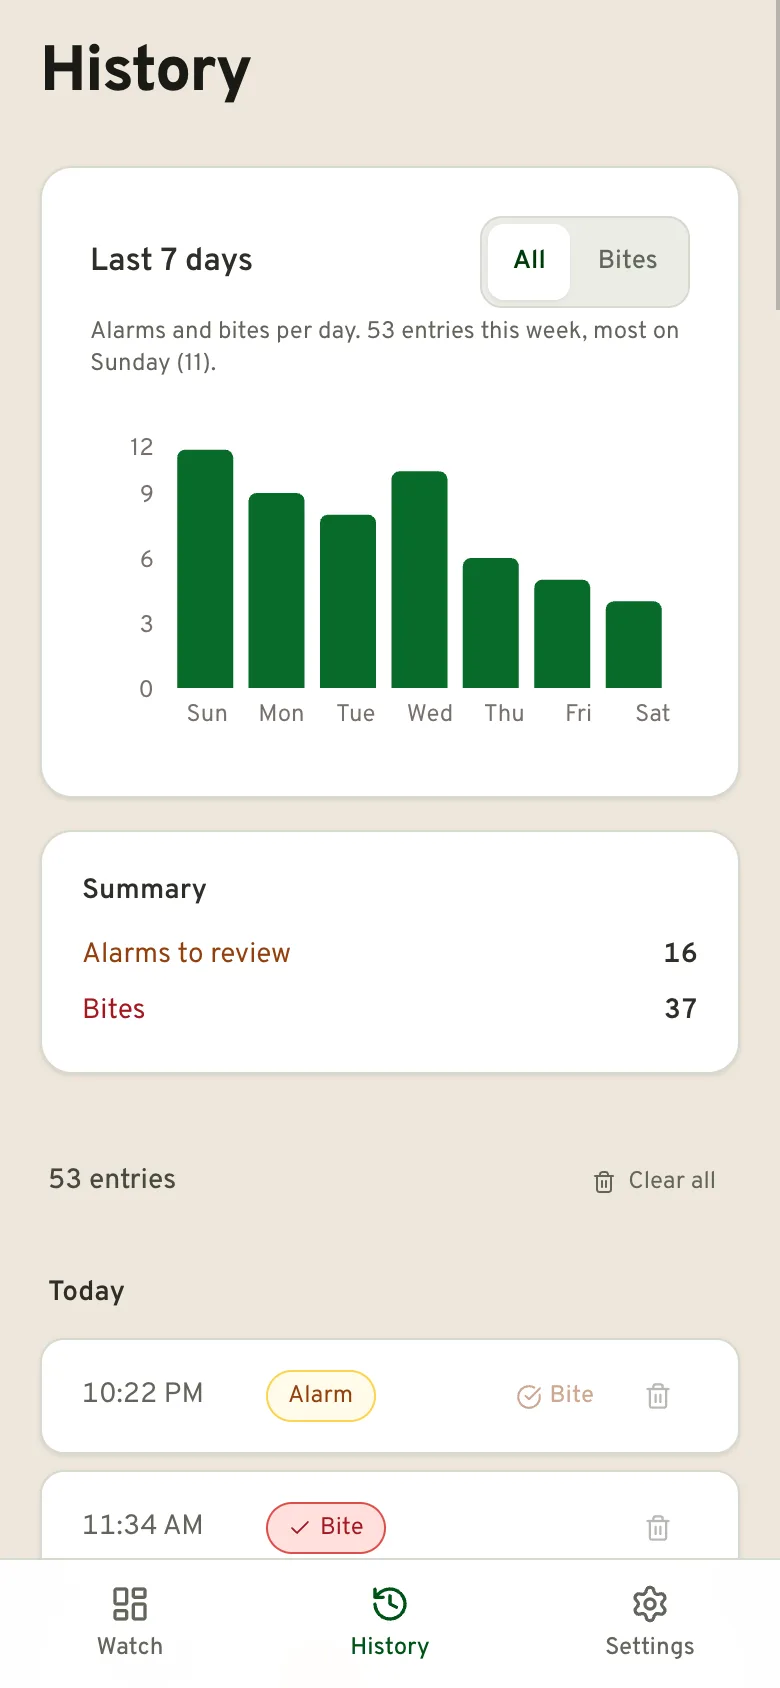
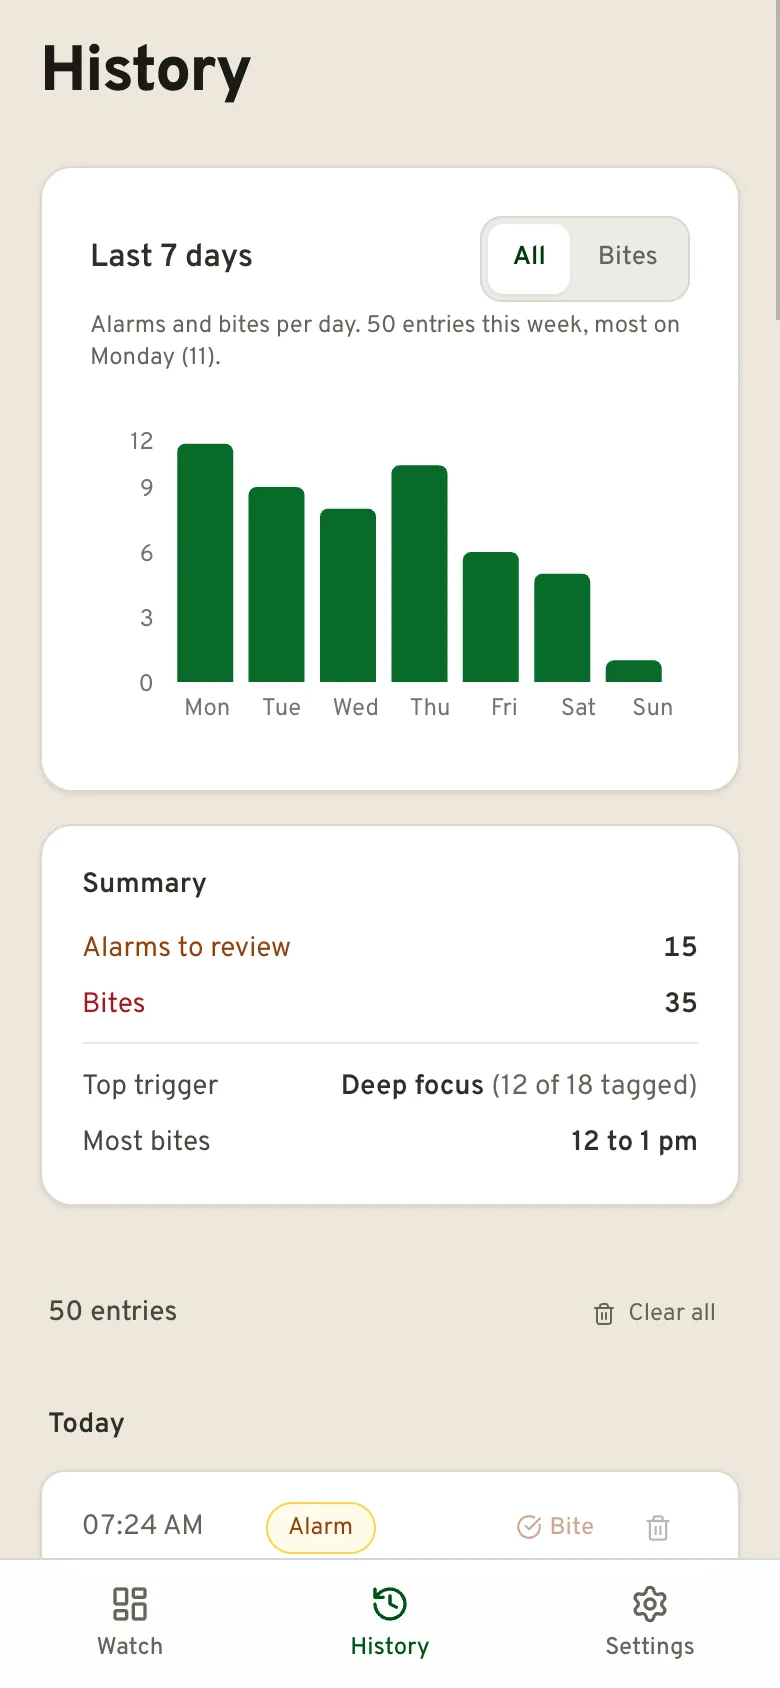
design(loop7 2/10): History finally says what sets you off
History's empty state promises 'Tag them and this page shows what sets you off', and nothing on the page ever did: the summary was two counts. It now adds, from confirmed and logged bites only, 'Top trigger: Deep focus (12 of 18 tagged)' and 'Most bites: 12 to 1 pm'. New utils/insights (with tests) keeps it honest: a row appears only with at least 3 bites (3 tagged ones for the trigger) and a repeat, 'not sure' and untagged bites never count as a trigger, and ties resolve the same way every render. Homepage app screenshots recaptured. Checked light and dark.

diff --git a/src/pages/Log.tsx b/src/pages/Log.tsx
@@ -7,6 +7,7 @@ import { subDays, startOfDay, format } from 'date-fns';
 import { PageHeader } from '../components/layout/PageHeader';
 import { SegmentedControl } from '../components/ui/SegmentedControl';
 import { PRESET_TAGS } from '../components/dashboard/triggerTags';
+import { topTrigger, peakHour, hourRange } from '../utils/insights';
 import type { CustomTag, Incident, StatsMetric } from '../types';
 // One fill for every bar. Colouring bars by count (green, amber, red) meant a
 // quiet day read as "safe" and clashed with the amber/red used for alarms and
@@ -33,6 +34,38 @@ function biteTagLabel(inc: Incident, customTags: CustomTag[]): string {
   if (preset) return `Bite · ${preset.label}`;
   const custom = customTags.find(x => x.id === inc.tag);
   return custom ? ['Bite ·', custom.emoji, custom.label].filter(Boolean).join(' ') : 'Bite';
+}
+
+// What the empty state promises ("this page shows what sets you off"), from
+// confirmed and logged bites only. Each row appears once there is enough data
+// to mean something (see utils/insights).
+function BiteInsights() {
+  const { incidents, customTags } = useAppStore();
+  const bites = incidents.filter(isConfirmedBite);
+  const trigger = topTrigger(bites);
+  const peak = peakHour(bites);
+  if (!trigger && !peak) return null;
+  const triggerLabel = trigger
+    ? [...PRESET_TAGS, ...customTags].find(t => t.id === trigger.tag)?.label ?? trigger.tag
+    : null;
+  return (
+    <div className="mt-3 space-y-2 border-t border-stone-100 pt-3 dark:border-ink-400">
+      {trigger && (
+        <div className="flex justify-between gap-4">
+          <span className="text-stone-600 dark:text-stone-300">Top trigger</span>
+          <span className="text-right font-semibold text-stone-700 dark:text-stone-200">
+            {triggerLabel} <span className="font-normal text-stone-500 dark:text-stone-400">({trigger.count} of {trigger.of} tagged)</span>
+          </span>
+        </div>
+      )}
+      {peak && (
+        <div className="flex justify-between gap-4">
+          <span className="text-stone-600 dark:text-stone-300">Most bites</span>
+          <span className="text-right font-semibold text-stone-700 dark:text-stone-200">{hourRange(peak.hour)}</span>
+        </div>
+      )}
+    </div>
+  );
 }
 
 function WeekChart() {
@@ -207,6 +240,7 @@ export function Log({ onGoToWatch }: { onGoToWatch?: () => void }) {
                     {incidents.filter(isConfirmedBite).length}
                   </span>
                 </div>
+                <BiteInsights />
               </div>
             </div>
           )}

diff --git a/src/utils/insights.test.ts b/src/utils/insights.test.ts
@@ -1,0 +1,37 @@
+import { describe, it, expect } from 'vitest';
+import { topTrigger, peakHour, hourRange } from './insights';
+import type { Incident } from '../types';
+
+const at = (h: number, m = 0) => new Date(2026, 8, 20, h, m).getTime();
+const bite = (tag: string, ts: number): Incident => ({ id: `${tag}${ts}`, timestamp: ts, tag, autoDetected: false });
+
+describe('topTrigger', () => {
+  it('names the most common tag once there are enough tagged bites', () => {
+    const b = [bite('stress', at(9)), bite('stress', at(10)), bite('focus', at(11)), bite('auto-detected', at(12))];
+    expect(topTrigger(b)).toEqual({ tag: 'stress', count: 2, of: 3 });
+  });
+  it('ignores untagged and "not sure" bites, and stays quiet on thin data', () => {
+    expect(topTrigger([bite('stress', at(9)), bite('unknown', at(10)), bite('auto-detected', at(11))])).toBeNull();
+    expect(topTrigger([bite('stress', at(9)), bite('focus', at(10)), bite('boredom', at(11))])).toBeNull();
+  });
+});
+
+describe('peakHour', () => {
+  it('finds the hour with the most bites', () => {
+    const b = [bite('x', at(15, 5)), bite('x', at(15, 40)), bite('x', at(9))];
+    expect(peakHour(b)).toEqual({ hour: 15, count: 2 });
+  });
+  it('needs a sample and a repeat', () => {
+    expect(peakHour([bite('x', at(15)), bite('x', at(16))])).toBeNull();
+    expect(peakHour([bite('x', at(8)), bite('x', at(9)), bite('x', at(10))])).toBeNull();
+  });
+});
+
+describe('hourRange', () => {
+  it('reads like a person would say it', () => {
+    expect(hourRange(15)).toBe('3 to 4 pm');
+    expect(hourRange(11)).toBe('11 am to 12 pm');
+    expect(hourRange(23)).toBe('11 pm to 12 am');
+    expect(hourRange(0)).toBe('12 to 1 am');
+  });
+});

diff --git a/src/utils/insights.ts b/src/utils/insights.ts
@@ -1,0 +1,37 @@
+import type { Incident } from '../types';
+
+// What History can honestly say from the bites a person has confirmed or
+// logged. Each insight needs a minimum sample, so two bites never become "your
+// top trigger". Ties go to the earlier hour / the first tag seen, which keeps
+// the answer stable between renders.
+export const MIN_SAMPLE = 3;
+
+export function topTrigger(bites: Incident[]): { tag: string; count: number; of: number } | null {
+  const tagged = bites.filter(b => b.tag !== 'auto-detected' && b.tag !== 'unknown');
+  if (tagged.length < MIN_SAMPLE) return null;
+  const counts = new Map<string, number>();
+  for (const b of tagged) counts.set(b.tag, (counts.get(b.tag) ?? 0) + 1);
+  let best: string | null = null;
+  for (const [tag, n] of counts) if (best === null || n > counts.get(best)!) best = tag;
+  const count = counts.get(best!)!;
+  return count >= 2 ? { tag: best!, count, of: tagged.length } : null;
+}
+
+export function peakHour(bites: Incident[]): { hour: number; count: number } | null {
+  if (bites.length < MIN_SAMPLE) return null;
+  const counts = new Array(24).fill(0);
+  for (const b of bites) counts[new Date(b.timestamp).getHours()]++;
+  let hour = 0;
+  for (let h = 1; h < 24; h++) if (counts[h] > counts[hour]) hour = h;
+  return counts[hour] >= 2 ? { hour, count: counts[hour] } : null;
+}
+
+/** "3 to 4 pm", "11 am to 12 pm" */
+export function hourRange(hour: number): string {
+  const fmt = (h: number) => {
+    const n = h % 12 === 0 ? 12 : h % 12;
+    return { n, ap: h % 24 < 12 ? 'am' : 'pm' };
+  };
+  const a = fmt(hour), b = fmt(hour + 1);
+  return a.ap === b.ap ? `${a.n} to ${b.n} ${b.ap}` : `${a.n} ${a.ap} to ${b.n} ${b.ap}`;
+}

diff --git a/tasks/design-loop-7.md b/tasks/design-loop-7.md
@@ -1,9 +1,8 @@
 # Design loop, round 7 (10 iterations, every 5 min)
 
-iterations: 1
+iterations: 2
 
 ## Backlog
-- 2: History shows the insight it promises: top trigger and the hour most bites happen (from confirmed bites).
 - 3: One hand-at-chin moment logs a run of alarms: don't log a new incident within 30s of the last auto one (the alarm still sounds).
 - 4: The article CTA never says what the product is: name it (a webcam alarm) in the card under every post.
 - 5: Blog index: 'Start here' link to the complete guide; topic filters sorted by size with counts.
@@ -15,3 +14,4 @@ iterations: 1
 
 ## Log
 - 1/10: post-alarm card: 'Not a bite' removes the false alarm; tag question can't be read as 'not a bite'
+- 2/10: History summary: top trigger and busiest hour from bites (utils/insights + tests)
